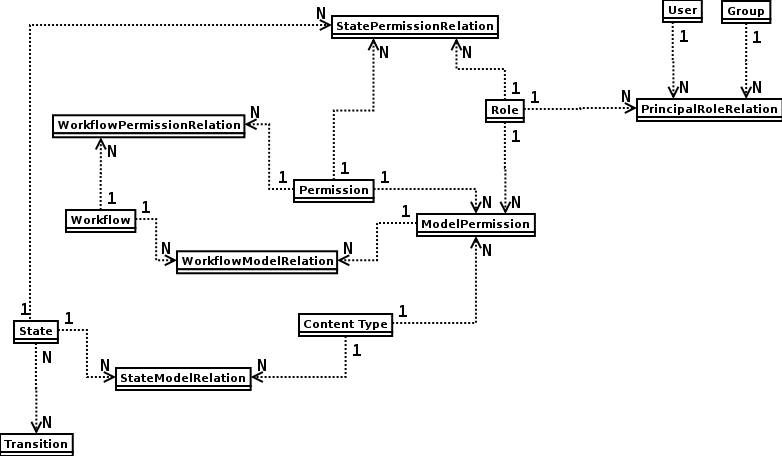
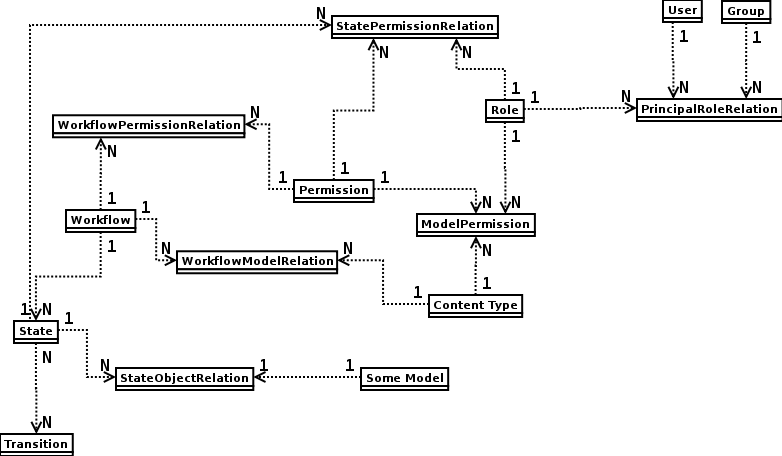
Doc updated #6.

diff --git a/doc/workflow.rst b/doc/workflow.rst
@@ -30,6 +30,9 @@ Class diagram
 
 Workflow models
 ===============
+``Workflow`` is made of directed graph, nodes are modelled by ``State`` instances
+and edges are modelled by ``Transition`` instances.
+
 
 **Workflow** model - Workflow instance can be added to any model:
 
@@ -41,14 +44,14 @@ Workflow models
     wf.set_to_model(CommonArticle)
 
 
-**State** model - State instance can be added to more workflow instances:
+**State** model
 
  ::
 
     state = State("Epic out-of-space state")
     state.workflow = workflow
 
-**Transition** model - transitions are connections between nodes(states), you can add more transitions to one state ofc.:
+**Transition** model - transitions are connections between nodes (states), you can add more transitions to one state ofc.:
 
  ::
 
@@ -84,20 +87,21 @@ can in state "Corrected" publish an article (has "can_publish" permission):
     can_publish = Permission(titile="Can publish", codename="can_publish")
     editor_in_chief = Role(title="Editor in chief")
 
-    spr = StatePermissionRelation(state=corr_state, permission=can_publish, role=editor_in_chief)
+    relation = StatePermissionRelation(state=corr_state, permission=can_publish, role=editor_in_chief)
 
 
 
-*StateModelRelation* - is mapping a given state to a given model content_type:
+*StateObjectRelation* - is mapping a given state to a given model object:
 
  ::
 
-    from ella_hub.models import State, StateModelRelation, CommonArticle
+    from ella_hub.models import State, StateObjectRelation, CommonArticle
     from django.contrib.contenttypes.models import ContentType
 
     state = State(title="Some state")
     ct = ContentType.objects.get_for_model(CommonArticle)
-    smr = StateModelRelation(state=state, content_type=ct)
+    article = CommonArticle(title="Awesome article", ...)
+    relation = StateObjectRelation(state=state, content_type=ct, content_id=article.id)
 
 
 *WorkflowPermissionRelation* - is mapping a given permission to a given workflow, permissions
@@ -110,7 +114,7 @@ system independency.
 
     wf = Workflow(title="Epic workflow")
     can_publish = Permission(title="Can publish", codename="can_publish")
-    wpr = WorkflowPermissionRelation(permission=can_publish, workflow=wf)
+    relation = WorkflowPermissionRelation(permission=can_publish, workflow=wf)
 
 
 
@@ -158,9 +162,9 @@ Permission models
     from django.contrib.auth.models import User, Group
 
     editor = Role(title="Editor")
-    nixxon = User(username="richy_nixxon")
-    prr = PrincipalRoleRelation(role=editor)
-    prr.set_principal(nixxon)
+    userko = User(username="Userko")
+    relation = PrincipalRoleRelation(role=editor)
+    relation.set_principal(userko)
 
 
 -------------
@@ -168,7 +172,7 @@ Ella workflow
 -------------
 
 
-Publishable States
+States
 ==================
 
 * added - Added/Vložen
@@ -179,9 +183,6 @@ Publishable States
 * deleted - Deleted/Smazán
 
 
-Roles definition
-================
-* editor in chief
-* editor
-* photographer
-* ...
+Testing Ella-workflow implementation
+====================================
+*TODO*

diff --git a/doc/api.rst b/doc/api.rst
@@ -130,6 +130,16 @@ Logout
 
 
 
+Object State Switching
+======================
+All possible states object (article, photo etc.) can be switched to (with respect
+to used workflow), are accessible via "states" resource field.
+When creating new object in admin, "states" sent in login response content for particular
+resource should be used. These "states" are states object can switch to from initial state.
+Object state can be switched simply setting "state" resource field to state codename in POST/PUT/PATCH request.
+
+
+
 Generic API for all resources
 =============================
 
